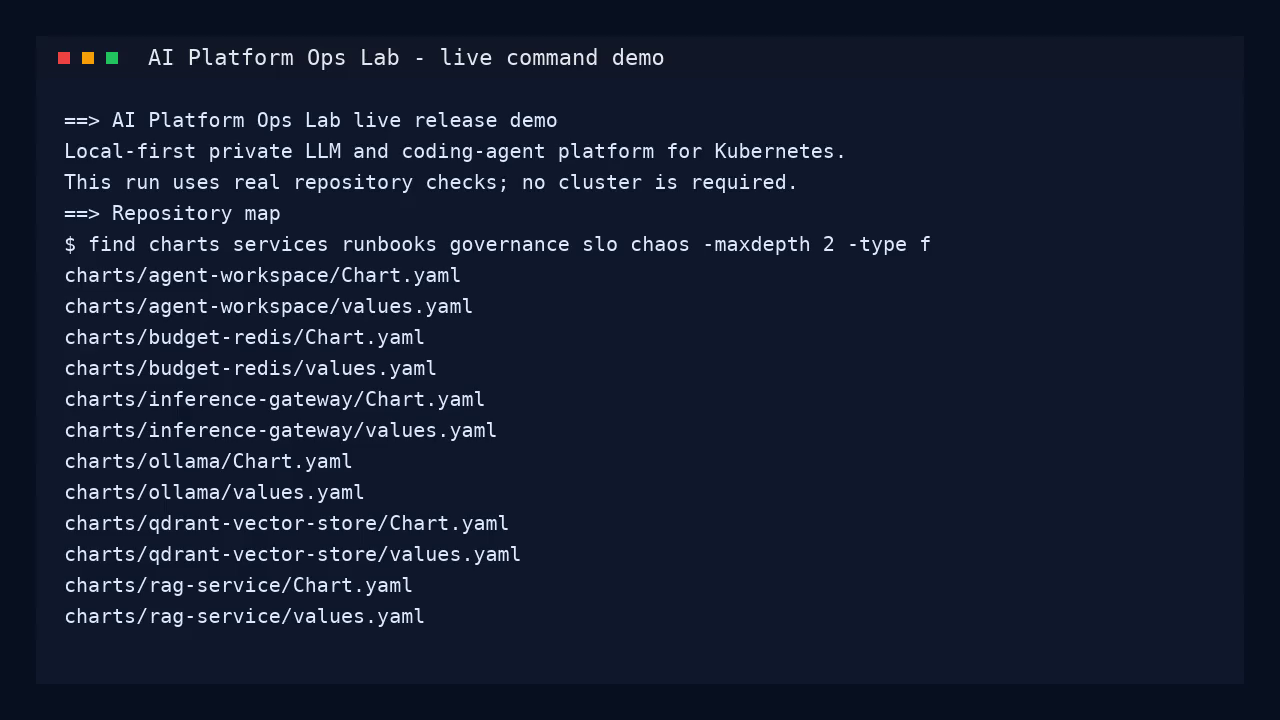
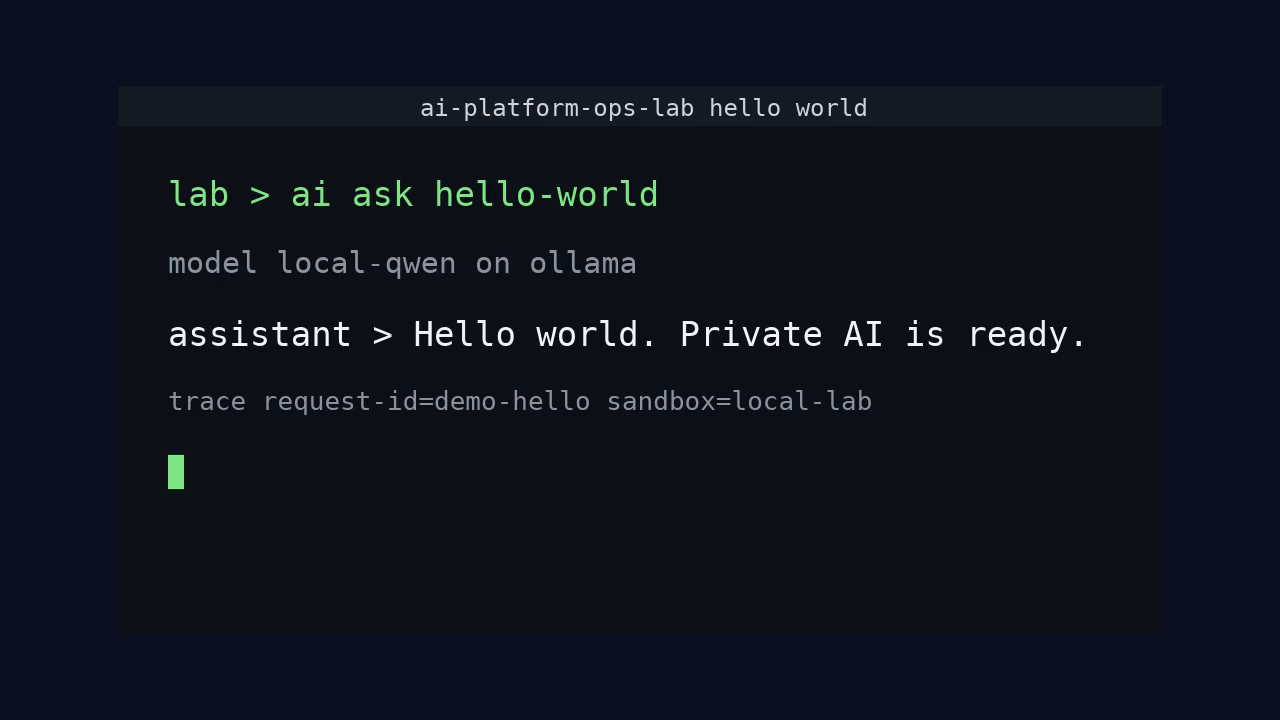
Embed simple terminal demo in README

diff --git a/README.md b/README.md
@@ -16,12 +16,14 @@ This repo proves a private AI platform can be operated with GitOps, policy as co
 ## Live Demo
 
 <p align="center">
-  <video src="docs/assets/ai-platform-ops-lab-demo.mp4" poster="docs/assets/ai-platform-ops-lab-demo-poster.png" controls muted playsinline width="100%" title="AI Platform Ops Lab live demo"></video>
+  <a href="docs/assets/ai-platform-ops-lab-demo.mp4">
+    <img src="docs/assets/ai-platform-ops-lab-demo.gif" alt="Terminal demo showing a private AI assistant saying hello world" width="100%">
+  </a>
 </p>
 
-[Watch or download the live demo](docs/assets/ai-platform-ops-lab-demo.mp4)
+[Watch or download the MP4](docs/assets/ai-platform-ops-lab-demo.mp4)
 
-The demo video is generated from a real command run with `scripts/demo-live.sh`.
+The demo is a short terminal hello-world cut generated from `scripts/demo-live.sh`.
 
 ## Why It Matters
 

diff --git a/docs/README.md b/docs/README.md
@@ -59,6 +59,7 @@ Use this map to move from product overview to implementation detail, operational
 | Asset | Path |
 | --- | --- |
 | Architecture diagram | [architecture.svg](assets/architecture.svg) |
+| README animated demo | [ai-platform-ops-lab-demo.gif](assets/ai-platform-ops-lab-demo.gif) |
 | README demo video | [ai-platform-ops-lab-demo.mp4](assets/ai-platform-ops-lab-demo.mp4) |
 | Demo poster image | [ai-platform-ops-lab-demo-poster.png](assets/ai-platform-ops-lab-demo-poster.png) |
 | Live demo command script | [demo-live.sh](../scripts/demo-live.sh) |